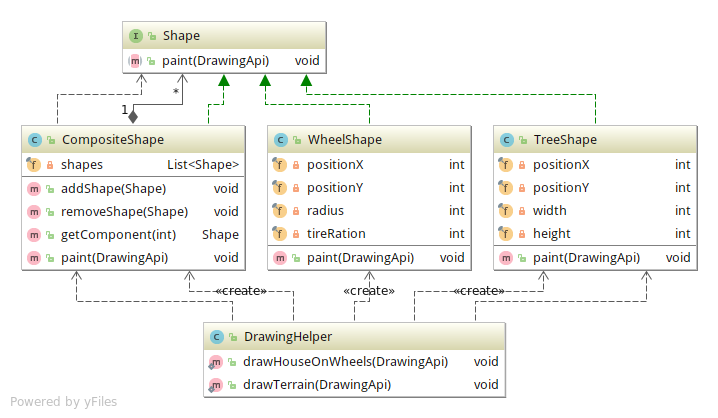
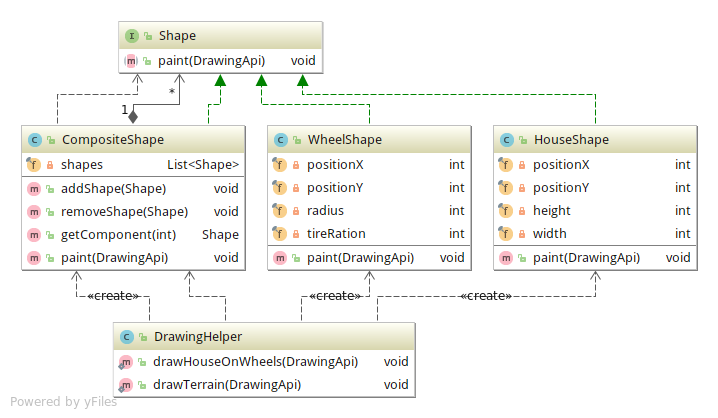
Reports added

diff --git a/behavioral/README.md b/behavioral/README.md
@@ -1,0 +1,45 @@
+# Class diagram
+
+## Command
+
+Command decouples the object that invokes the operation from the one that knows how to perform it. To achieve this separation, the designer creates an abstract base class that maps a receiver (an object) with an action (a pointer to a member function). The base class contains an execute() method that simply calls the action on the receiver. This pattern is close to Strategy, but instead, this does not represent an algorithm, but action(which doesn't have a parameter).
+
+I had used command as a menu action. Executed command is assigned after user input selection.
+
+![Abstract factory](/behavioral/diagrams/command.png)
+
+## Strategy
+
+There are common situations when classes differ only in their behavior. For this cases is a good idea to isolate the algorithms in separate classes in order to have the ability to select different algorithms at runtime.
+
+In our laboratory work I added several algorithms for a collection of numbers (Multiply, Min, Max, Sum). These all accepts same parameters and gives as result a number. The algorithm is selected at runtime (user selects algorithm).
+
+![Builder](/behavioral/diagrams/strategy.png)
+
+## Chain of responsability
+
+The Chain of Responsibility design pattern allows an object to send a command without knowing what object will receive and handle it. The request is sent from one object to another making them parts of a chain and each object in this chain can handle the command, pass it on or do both. This pattern is used sometimes in Web application, for implementing *Filters*.
+
+In our case, I had implemented a chain of formatters. The chain will stop when sended object has a specific type.
+
+![Factory method](/behavioral/diagrams/chain-of-responsability.png)
+
+## Iterator
+
+The idea of the iterator pattern is to take the responsibility of accessing and passing trough the objects of the collection and put it in the iterator object. The iterator object will maintain the state of the iteration, keeping track of the current item and having a way of identifying what elements are next to be iterated.
+
+In our case we had an abstraction for Enumerable (Collection) and Iterator, which iterates over collection. I had added a custom list and implementation for an interator over that list.
+
+![Prototype](/behavioral/diagrams/iterator.png)
+
+## Null
+
+The intent of a Null Object is to encapsulate the absence of an object by providing a substitutable alternative that offers suitable default do nothing behavior. In short, a design where "nothing will come of nothing"
+
+In this laboratory work I used this as default action for Algorithm selection. Because user selects an algorithm by specifying it's index, this may cause that user has selected an index without an algorithm assigned. NullAlgorithm is used as default value for algorithm. If user input matches any algorithm, than this value is replaced. Otherwise it will remains as Null and won't cause any harm as it works as normal object.
+
+![Singletone](/behavioral/diagrams/null.png)
+
+# Conclusion
+
+In my opinion, behavioral patterns plays bigger role than other patterns. Behavioral are used more often than structural and creational, that are often replaced by dependency injection (singletone, factory-ies). Behavioral patterns is a strong foundation for a project, especially complex projects where is required a lot of data manipulations and computations. Such patterns as Command and Strategy offers a good flexibility and respects a principile from SOLID - (Open/Closed). These patterns gives us a easy way to extends and separate logic and behavior. Of course iterators are used everythere. Iterators are on base of collections in every language. Iterations over foreach loops are done with iterators. Also iterators are used for advanced topics like Stream(java) or Linq(C#). 

diff --git a/structural/README.md b/structural/README.md
@@ -2,26 +2,44 @@
 
 ## Bridge
 
+Sometimes an abstraction should have different implementations; consider an object that handles persistence of objects over different platforms using either relational databases or file system structures. The intent of this pattern is to decouple abstraction from implementation so that the two can vary independently.
+
+In my laboratory work, I have created 2 astractions names as `Shape` and `DrawingApi`. These two abstractions can vary independently. Also, we have created multiple number of shapes in our program.
+
 ![Abstract factory](/structural/diagrams/bridge.png)
 
 ## Composite
+
+There are times when a program needs to manipulate a tree data structure and it is necessary to treat both Branches as well as Leaf Nodes uniformly. The intent of this pattern is to compose objects into tree structures to represent part-whole hierarchies.
+
+In my case I used composite shape to create a House On Wheel. We had a shape of house and shape of wheels (maybe something additional). Composite pattern allowed us to join them all and consider as a single element. Composite pattern can handle from one to infinite number of shapes.
 
 ![Builder](/structural/diagrams/composite.png)
 
 ## Decorator
 
+Extending an object's functionality can be done statically (at compile time) by using inheritance however it might be necessary to extend an object's functionality dynamically (at runtime) as an object is used.
+
+In my case I have created a ground decorator, this actually was printing a ground + a concrete Shape. So, this is like two objects as one.
+
 ![Factory method](/structural/diagrams/decorator.png)
 
-## Prototype
+## Proxy
 
+Sometimes we need the ability to control the access to an object. For example if we need to use only a few methods of some costly objects we'll initialize those objects when we need them entirely. Until that point we can use some light objects exposing the same interface as the heavy objects. These light objects are called proxies and they will instantiate those heavy objects when they are really need and by then we'll use some light objects instead.
+
+In my case, a proxy was a `LoggingProxyShell` which was responsibly logged all actions for a specific Shell. Actually this proxy just prints the parameters and redirects command to a real object. 
 
 ![Prototype](/structural/diagrams/proxy.png)
 
 ## Adapter
 
+The adapter pattern is adapting between classes and objects. Like any adapter in the real world it is used to be an interface, a bridge between two objects. In real world we have adapters for power supplies, adapters for camera memory cards, and so on.
+
+In my case, I have adapted a system command line to our Shell interface. After adapting, we can use this as a normal component in our system, without chaning our system.
+
 ![Singletone](/structural/diagrams/adapter.png)
 
-# Tests
-There is one test written for *Builder Pattern* which checks if builder works properly.
-
 # Conclusion
+
+In my opinion, structural patterns are important, especially for Client-side applications and drawing applications. Their usage is common for UI-things. Of course, we should know them all, as long as we pretend to be engineers. Of course, we can find their usage on server-side applications. For example, Entity Framework ORM uses Proxy objects for lazy loading and modification tracking. This already means a big usage, as everyone uses ORM (maybe not everyone knows that they work with proxy).
